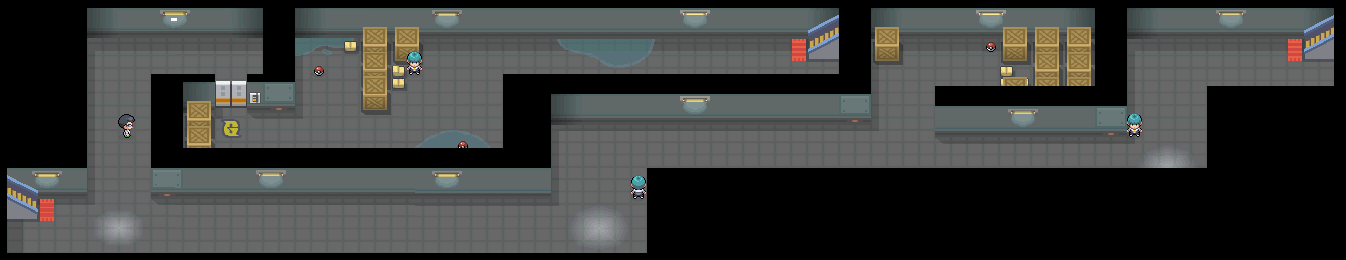
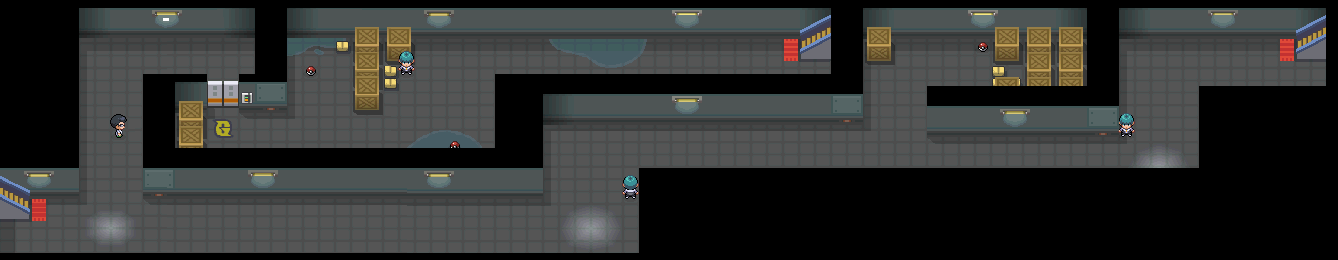
tiles can now contain trainers

diff --git a/PokemonPlatinum/src/Pokemon_Platinum_Game.java b/PokemonPlatinum/src/Pokemon_Platinum_Game.java
@@ -15,15 +15,27 @@ public class Pokemon_Platinum_Game {
 		this.movelist = new Movelist();
 		this.trainer_map_storage = new Trainer_Map_Storage(pokedex, movelist);
 		this.map_storage = new Map_Storage();
+		addTrainers();
+		
 		this.player = new Player("Cynthia", "Cynthia", Direction.DOWN);
-		//this.current_map = map_storage.getPokemon_map("Twinleaf_Town");
-		this.current_map = map_storage.getPokemon_map("Galactic_Warehouse_B1F");
+		this.current_map = map_storage.getPokemon_map("Twinleaf_Town");
+		//this.current_map = map_storage.getPokemon_map("Sandgem_Town");
 		this.player.setGrid_x(8);
 		this.player.setGrid_y(12);
 	}
 	
+	private void addTrainers() {
+		for (Trainer_Map tm : this.trainer_map_storage.getTrainer_map_storage())
+		{
+			for (Pokemon_Trainer pt : tm.getTrainer_list())
+			{
+				this.map_storage.getPokemon_map(tm.getMap_name()).getTile(pt.getGrid_y(), pt.getGrid_x()).setPokemon_trainer(pt);;   
+			}
+		}
+	}
+
 	// What do you want to do when a key is hit?
-	public void keyHit(String s) 
+	public void keyHit(String s) throws IOException 
 	{
 		Tile[][] temp = current_map.getGrid();
 		int r = player.getGrid_y();
@@ -35,7 +47,11 @@ public class Pokemon_Platinum_Game {
 			{
 				if (player.getDirection() == Direction.UP)
 				{
-					if (r > 0)
+					if (temp[r - 1][c].getPokemon_trainer() != null)
+					{
+						new Pokemon_Battle_Runner(player, temp[r - 1][c].getPokemon_trainer());
+					}
+					else if (r > 0)
 					{
 						switch (temp[r - 1][c].getType())
 						{
@@ -109,7 +125,11 @@ public class Pokemon_Platinum_Game {
 			{
 				if (player.getDirection() == Direction.DOWN)
 				{
-					if (r < temp.length - 1)
+					if (temp[r + 1][c].getPokemon_trainer() != null)
+					{
+						new Pokemon_Battle_Runner(player, temp[r + 1][c].getPokemon_trainer());
+					}
+					else if (r < temp.length - 1)
 					{
 						switch (temp[r + 1][c].getType())
 						{
@@ -183,7 +203,11 @@ public class Pokemon_Platinum_Game {
 			{
 				if (player.getDirection() == Direction.LEFT)
 				{
-					if (c > 0)
+					if (temp[r][c - 1].getPokemon_trainer() != null)
+					{
+						new Pokemon_Battle_Runner(player, temp[r][c - 1].getPokemon_trainer());
+					}
+					else if (c > 0)
 					{
 						switch (temp[r][c - 1].getType())
 						{
@@ -257,7 +281,11 @@ public class Pokemon_Platinum_Game {
 			{
 				if (player.getDirection() == Direction.RIGHT)
 				{
-					if (c < temp[r].length - 1)
+					if (temp[r][c + 1].getPokemon_trainer() != null)
+					{
+						new Pokemon_Battle_Runner(player, temp[r][c + 1].getPokemon_trainer());
+					}
+					else if (c < temp[r].length - 1)
 					{
 						switch (temp[r][c + 1].getType())
 						{

diff --git a/PokemonPlatinum/src/Pokemon_Platinum_Runner.java b/PokemonPlatinum/src/Pokemon_Platinum_Runner.java
@@ -210,7 +210,12 @@ public class Pokemon_Platinum_Runner {
 		map.put("up", new AbstractAction() {
 			@Override
 			public void actionPerformed(ActionEvent e) {
-				hit("up");
+				try {
+					hit("up");
+				} catch (IOException e1) {
+					// TODO Auto-generated catch block
+					e1.printStackTrace();
+				}
 			}	
 		});
 		inMap.put(KeyStroke.getKeyStroke("pressed DOWN"), "down");
@@ -218,7 +223,12 @@ public class Pokemon_Platinum_Runner {
 		map.put("down", new AbstractAction() {
 			@Override
 			public void actionPerformed(ActionEvent e) {
-				hit("down");
+				try {
+					hit("down");
+				} catch (IOException e1) {
+					// TODO Auto-generated catch block
+					e1.printStackTrace();
+				}
 			}	
 		});
 		inMap.put(KeyStroke.getKeyStroke("pressed LEFT"), "left");
@@ -226,7 +236,12 @@ public class Pokemon_Platinum_Runner {
 		panel.getActionMap().put("left",new AbstractAction(){
 			@Override
 			public void actionPerformed(ActionEvent e) {
-				hit("left");
+				try {
+					hit("left");
+				} catch (IOException e1) {
+					// TODO Auto-generated catch block
+					e1.printStackTrace();
+				}
 			}
 		});
 		inMap.put(KeyStroke.getKeyStroke("pressed RIGHT"), "right");
@@ -234,14 +249,24 @@ public class Pokemon_Platinum_Runner {
 		map.put("right", new AbstractAction() {
 			@Override
 			public void actionPerformed(ActionEvent e) {
-				hit("right");
+				try {
+					hit("right");
+				} catch (IOException e1) {
+					// TODO Auto-generated catch block
+					e1.printStackTrace();
+				}
 			}
 		});
 		inMap.put(KeyStroke.getKeyStroke("pressed SPACE"), "stop");
 		map.put("stop", new AbstractAction() {
 			@Override
 			public void actionPerformed(ActionEvent e) {
-				hit("stop");
+				try {
+					hit("stop");
+				} catch (IOException e1) {
+					// TODO Auto-generated catch block
+					e1.printStackTrace();
+				}
 			}
 		});
 
@@ -252,7 +277,7 @@ public class Pokemon_Platinum_Runner {
 
 	}
 
-	public void hit(String s) {
+	public void hit(String s) throws IOException {
 		ticks = 0;
 
 		if (s.equals("up"))

diff --git a/PokemonPlatinum/src/Trainer_Reader.java b/PokemonPlatinum/src/Trainer_Reader.java
@@ -10,10 +10,10 @@ public class Trainer_Reader {
 		while (index < trainer_raw_data.length - 1)
 		{
 			trainer.getPokemon_storage().addPokemon(pokedex.getPokemon(trainer_raw_data[index + 1]));
-			trainer.getPokemon_storage().getPokemon((index - 4) / 6).addMove(movelist.getMove(trainer_raw_data[index + 2]));
-			trainer.getPokemon_storage().getPokemon((index - 4) / 6).addMove(movelist.getMove(trainer_raw_data[index + 3]));
-			trainer.getPokemon_storage().getPokemon((index - 4) / 6).addMove(movelist.getMove(trainer_raw_data[index + 4]));
-			trainer.getPokemon_storage().getPokemon((index - 4) / 6).addMove(movelist.getMove(trainer_raw_data[index + 5]));
+			trainer.getPokemon_storage().getPokemon((int) ((index - 4) / 6)).addMove(movelist.getMove(trainer_raw_data[index + 2]));
+			trainer.getPokemon_storage().getPokemon((int) ((index - 4) / 6)).addMove(movelist.getMove(trainer_raw_data[index + 3]));
+			trainer.getPokemon_storage().getPokemon((int) ((index - 4) / 6)).addMove(movelist.getMove(trainer_raw_data[index + 4]));
+			trainer.getPokemon_storage().getPokemon((int) ((index - 4) / 6)).addMove(movelist.getMove(trainer_raw_data[index + 5]));
 			
 			//trainer pokemons don't need to level up so they dont have exp total. also, this doesnt like exp total either 
 			trainer.getPokemon_storage().getPokemon((index - 4) / 6).setPokemon_Level(new Pokemon_Level(Integer.parseInt(trainer_raw_data[index + 6])));

diff --git a/PokemonPlatinum/src/Pokemon_Battle_Runner.java b/PokemonPlatinum/src/Pokemon_Battle_Runner.java
@@ -37,7 +37,7 @@ public class Pokemon_Battle_Runner {
 	private final int BAG_MENU = 2;
 	private final int TEAM_MENU = 3;
 	
-	public Pokemon_Battle_Runner(Player you, Pokemon_Trainer opponent, Pokemon_Move you_move, Pokemon_Move opponent_move) throws IOException
+	public Pokemon_Battle_Runner(Player you, Pokemon_Trainer opponent) throws IOException
 	{
 		this.you = you;
 		this.opponent = opponent;
@@ -74,7 +74,7 @@ public class Pokemon_Battle_Runner {
 	}
 
 	public static void main(String[] args) throws IOException {
-		new Pokemon_Battle_Runner(you, opponent, opponent_move, opponent_move);
+		new Pokemon_Battle_Runner(you, opponent);
 	}
 
 	private void start() {

diff --git a/PokemonPlatinum/src/Tile.java b/PokemonPlatinum/src/Tile.java
@@ -6,7 +6,7 @@ public class Tile {
 	public final int OBSTACLE = 2;
 	public final int SPECIAL = 3;
 	public final int WARP = 9;
-	
+	public Pokemon_Trainer trainer;
 	
 	private int type;
 	private int row;
@@ -44,8 +44,19 @@ public class Tile {
 	{
 		this.warp = new Warp(map_name, row, col);
 	}
+	
 	public Warp getWarp() {
 		return warp;
+	}
+	
+	public Pokemon_Trainer getPokemon_trainer()
+	{
+		return this.trainer;
+	}
+	
+	public void setPokemon_trainer(Pokemon_Trainer pt)
+	{
+		this.trainer = pt;
 	}
 
 }

diff --git a/PokemonPlatinum/src/Trainer_Map_Storage.java b/PokemonPlatinum/src/Trainer_Map_Storage.java
@@ -36,14 +36,14 @@ public class Trainer_Map_Storage {
 	private void add_maps() throws IOException {
 		for (String map_name : trainer_map_names)
 		{
-			//try
-			//{
+			try
+			{
 				trainer_map_storage.add(new Trainer_Map(map_name, pokedex, movelist));
-			//}
-			//catch (IllegalArgumentException e)
-			//{
-			//	System.out.println(map_name + " HAS NO TRAINERS");
-			//}
+			}
+			catch (IllegalArgumentException e)
+			{
+				System.out.println(map_name + " HAS NO TRAINERS");
+			}
 			
 		}
 		

diff --git a/PokemonPlatinum/src/Pokemon_Storage.java b/PokemonPlatinum/src/Pokemon_Storage.java
@@ -27,9 +27,21 @@ public class Pokemon_Storage {
 	{
 		for (Pokemon p : pokemon_storage)
 		{
-			if (index == p.getPokedex_number())
+			if (004 == p.getPokedex_number())
 			{
 				return pokemon_storage[index];
+			}
+		}
+		return null;
+	}
+	
+	public Pokemon getPokemon(String name)
+	{
+		for (Pokemon p : pokemon_storage)
+		{
+			if (name.equals(p.getName()))
+			{
+				return p;
 			}
 		}
 		return null;

diff --git a/PokemonPlatinum/src/Trainer_Map.java b/PokemonPlatinum/src/Trainer_Map.java
@@ -51,4 +51,9 @@ public class Trainer_Map {
 	public void setMap_name(String map_name) {
 		this.map_name = map_name;
 	}
+	
+	public ArrayList<Pokemon_Trainer> getTrainer_list()
+	{
+		return this.trainer_list;
+	}
 }
